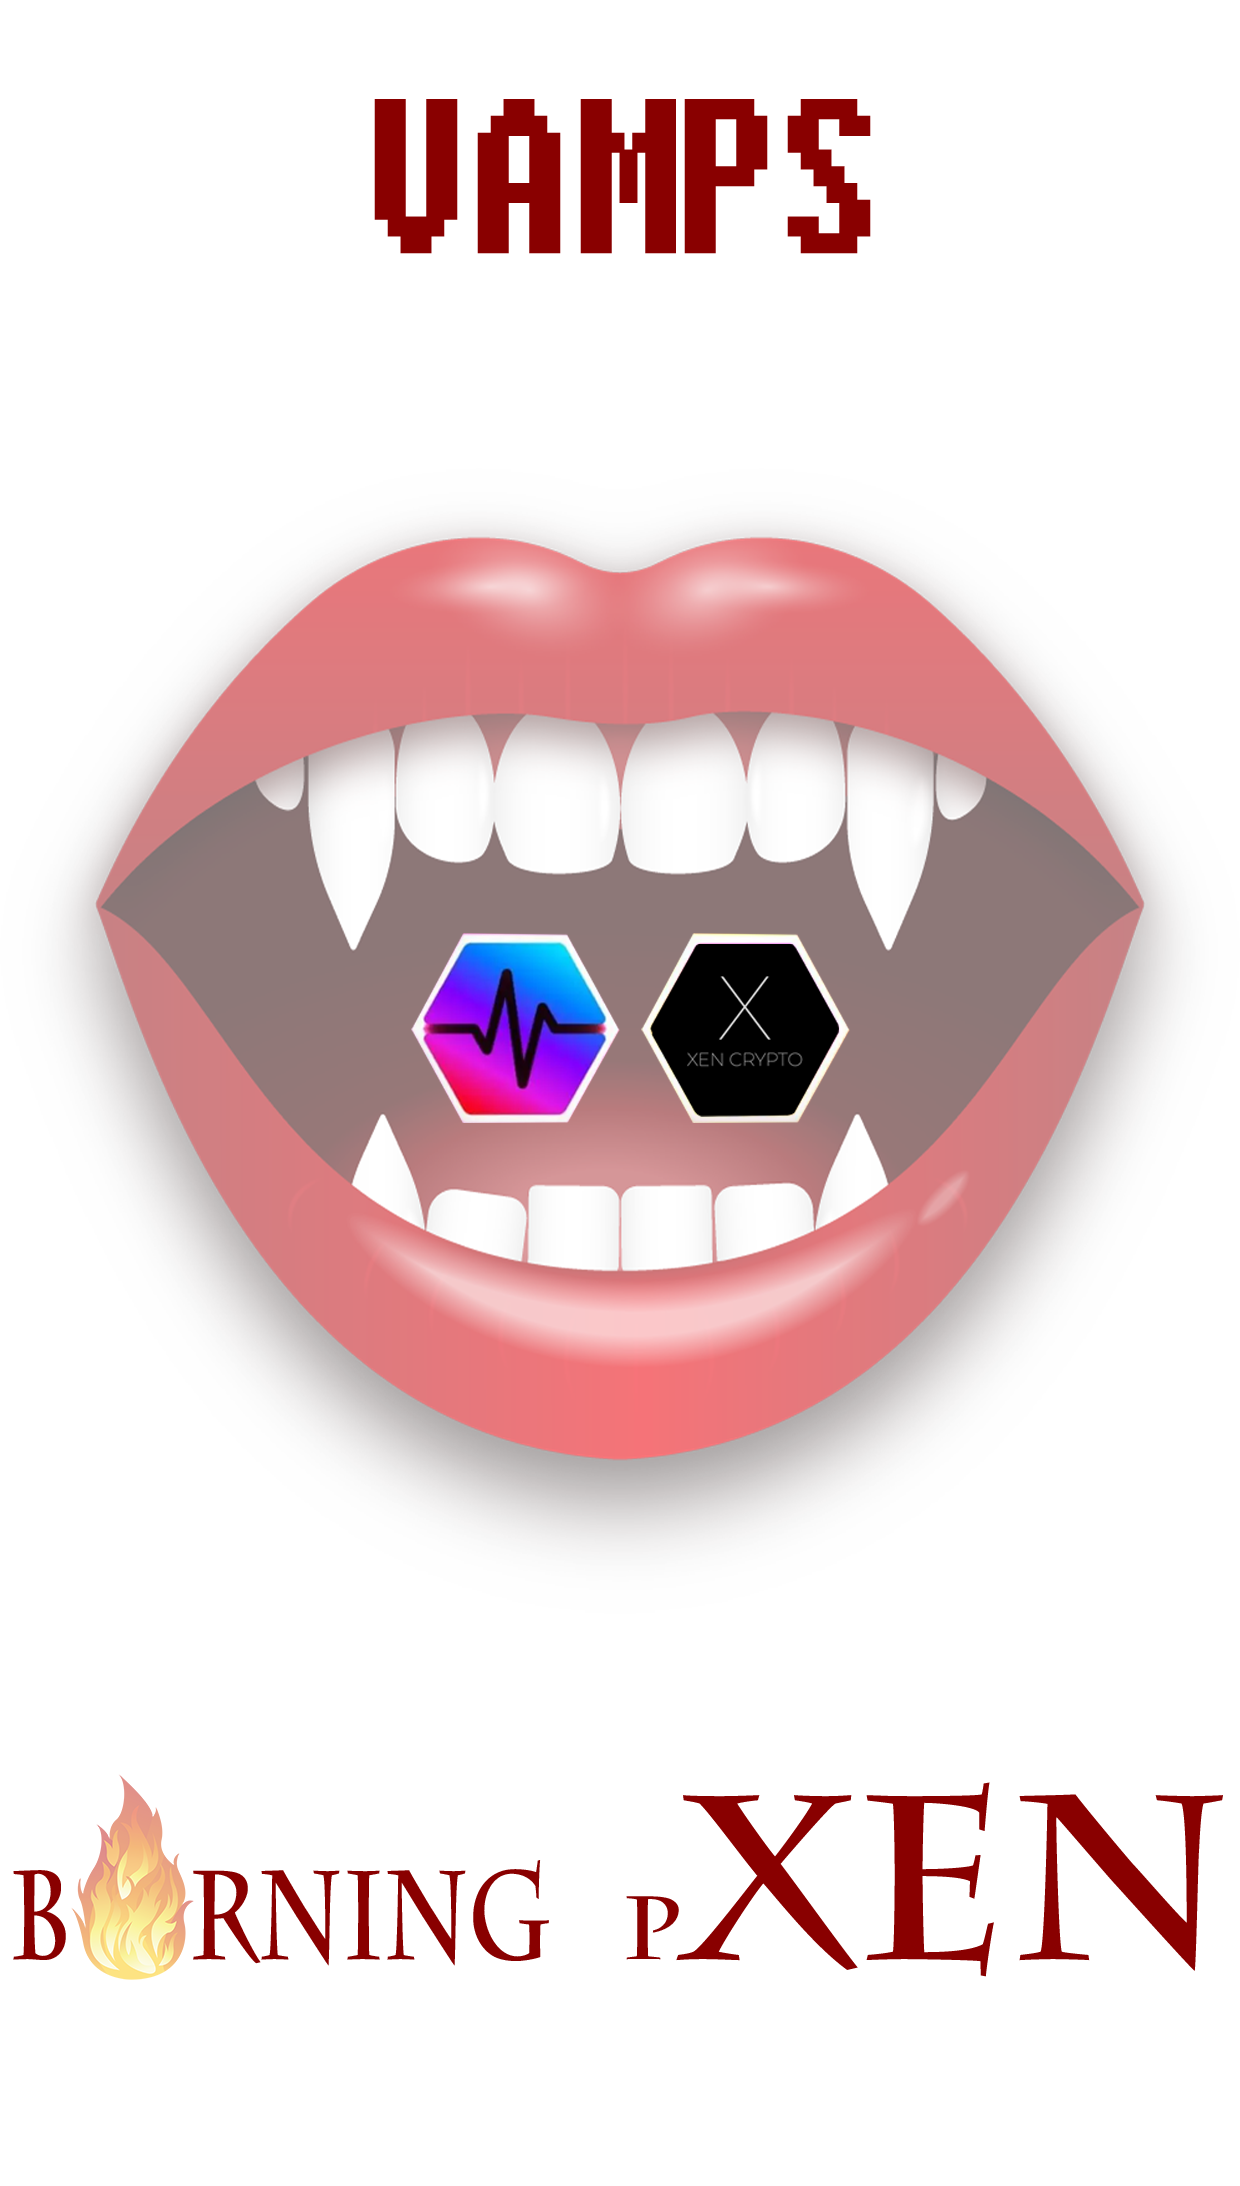
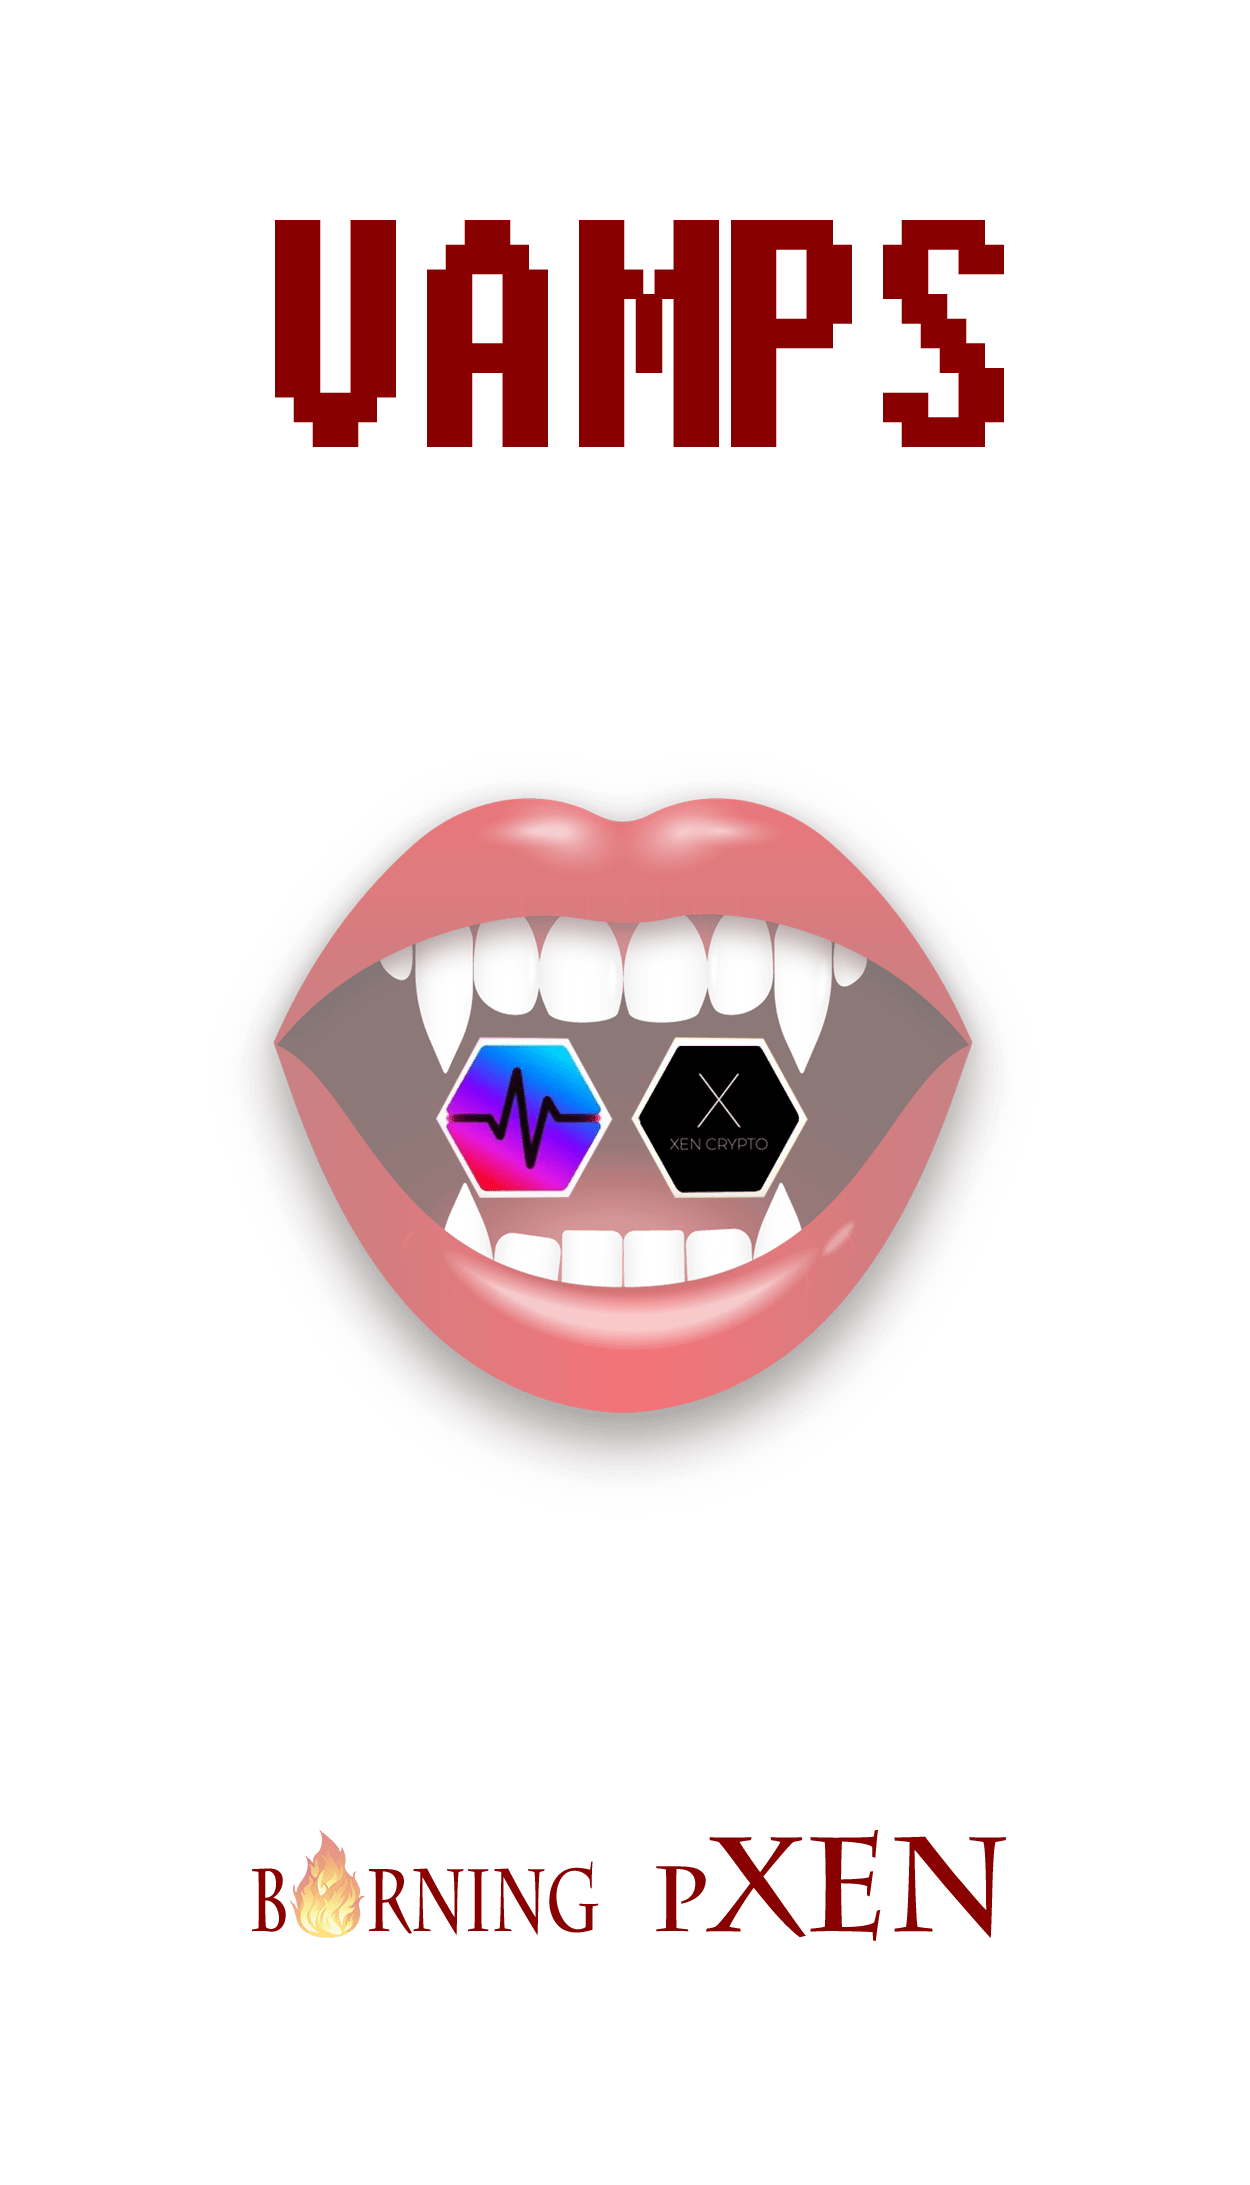
First

diff --git a/src/App.js b/src/App.js
@@ -1,10 +1,11 @@
+import "./App.css";
 import s1 from "./img/S1.png";
-import s2 from "./img/S2.png";
 import s3 from "./img/S3.png";
 import s4 from "./img/S4.png";
 import s5 from "./img/S5.png";
-import s6 from "./img/S6.png";
-import "./App.css";
+import s61 from "./img/S61.png";
+import s62 from "./img/S62.png";
+import image from "./img/vamps.gif";
 
 function App() {
   return (
@@ -14,10 +15,20 @@ function App() {
           <img src={s1} className="App-logo" alt="logo" />
         </header>
       </div>
-      <div className="section">
-        <header className="App-header">
-          <img src={s2} className="App-logo" alt="logo" />
-        </header>
+      <div className="section section-2">
+        <div className="App-content">
+          <p className="App-header-text">0/1000 MINTED</p>
+          <div className="App-img-center">
+            <img src={image} className="App-mouth-img" alt="logo" />
+          </div>
+          <button className="App-gradient-button mobile-button">
+            Blooding soon...
+          </button>
+          <div className="App-title">
+            CONTRACT:
+            <p>hdjbnhjbdvhjsdbvhjbfewbui3hy7823fh8712ydyhhdfuiefh</p>
+          </div>
+        </div>
       </div>
       <div className="section">
         <header className="App-header">
@@ -34,10 +45,35 @@ function App() {
           <img src={s5} className="App-logo" alt="logo" />
         </header>
       </div>
-      <div className="section">
-        <header className="App-header">
-          <img src={s6} className="App-logo" alt="logo" />
-        </header>
+      <div className="section-last">
+        <div>
+          <div>
+            <img src={s61} className="App-max-width-smaller" alt="logo" />
+          </div>
+          <div className="App-padding">
+            <a
+              href="https://t.me/vampspulsechain"
+              target="_blank"
+              rel="noreferrer"
+            >
+              <button className="App-gradient-button App-gradient-button-smaller">
+                Telegram
+              </button>
+            </a>
+            <a
+              href="https://twitter.com/XENstaker"
+              target="_blank"
+              rel="noreferrer"
+            >
+              <button className="App-gradient-button App-gradient-button-smaller">
+                Twitter
+              </button>
+            </a>
+          </div>
+          <div>
+            <img src={s62} className="App-max-width" alt="logo" />
+          </div>
+        </div>
       </div>
     </div>
   );

diff --git a/src/App.css b/src/App.css
@@ -10,20 +10,12 @@
   display: flex;
 }
 
-.section-3 {
-  background-color: blue;
-}
-
-.section-4 {
-  background-color: #d0d0d0;
-}
-
-.section-5 {
-  color: green;
+.section-2 {
+  height: 91vh;
 }
 
 .App-logo {
-  height: 99vmin;
+  height: 98%;
   pointer-events: none;
 }
 
@@ -33,7 +25,12 @@
   color: white;
 }
 
+.App-title p {
+  margin: 0;
+}
+
 .App-header-text {
+  font-size: 40px;
   font-family: "Fixedsys 62", sans-serif;
 }
 
@@ -47,7 +44,7 @@
   background-size: 200% auto;
   border-radius: 10px;
   border: none;
-  width: 18rem;
+  width: 15.5rem;
   padding: 0.75rem;
   cursor: pointer;
   display: inline-block;
@@ -100,9 +97,11 @@
 }
 
 .App-title {
-  font-size: 40px;
+  font-size: 25px;
   font-family: "Charlemagne Std", sans-serif;
   justify-content: center;
+  letter-spacing: -2px;
+  color: #4c4c4c;
 }
 
 .App-title .App-text-with-icon {
@@ -132,14 +131,13 @@
 }
 
 .App-img-center {
-  height: 21rem;
-  width: 23rem;
+  height: 20.5rem;
+  width: 22.5rem;
 }
 
 .App-img-center img,
 .App-img-center-smaller img {
-  height: inherit;
-  width: fit-content;
+  height: 100%;
 }
 
 .App-img-center-smaller {
@@ -179,6 +177,81 @@
 
 .App-link {
   color: #61dafb;
+}
+
+.App-max-width-smaller {
+  max-width: 45%;
+}
+
+.App-max-width {
+  max-width: 40%;
+}
+
+.App-gradient-button-smaller {
+  width: 12.75rem;
+  font-size: 27px;
+  margin: 0 2.5rem;
+}
+
+.App-padding {
+  padding: 0 10rem;
+}
+
+.section-last {
+  margin-top: -8rem;
+}
+
+@media only screen and (max-width: 600px) {
+  .section,
+  .section-2 {
+    overflow-y: auto;
+    height: auto;
+    display: block;
+  }
+
+  .App-title {
+    width: 100%;
+    margin-top: 3rem;
+  }
+
+  .App-title p {
+    margin: 0;
+    text-wrap: wrap;
+    word-wrap: break-word;
+  }
+
+  .section-last {
+    margin-top: -4rem;
+  }
+
+  .App-img-center {
+    height: 13.5rem;
+    width: 15.5rem;
+  }
+
+  .App-padding {
+    padding: 0;
+  }
+
+  .App-gradient-button-smaller {
+    font-size: 12px;
+    width: 4rem;
+    padding: 0.25rem;
+    margin: 10px;
+  }
+
+  .App-max-width-smaller {
+    max-width: 66%;
+  }
+
+  .App-logo {
+    width: 100%;
+    height: auto;
+  }
+
+  .mobile-button {
+    margin-top: 3rem;
+  }
 }
 
 @keyframes App-logo-spin {
